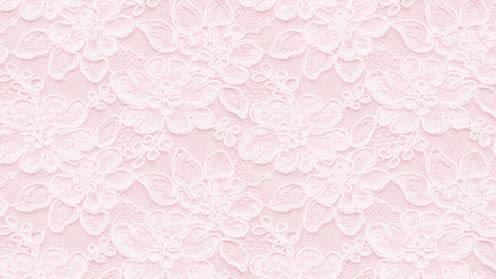
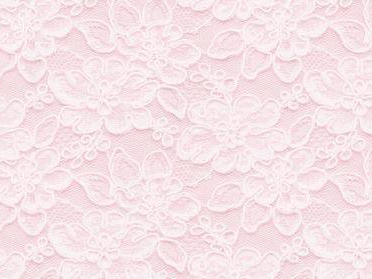
v3.1.3: hero — обрезка 4:3 и ровная рамка (aspect-ratio, object-fit)
Made-with: Cursor

diff --git a/public/css/app.css b/public/css/app.css
@@ -176,6 +176,15 @@ img {
   overflow: hidden;
   box-shadow: var(--shadow);
   border: 1px solid var(--border);
+  aspect-ratio: 4 / 3;
+}
+
+.hero-art__frame img {
+  display: block;
+  width: 100%;
+  height: 100%;
+  object-fit: cover;
+  object-position: center;
 }
 
 .hero h1 {

diff --git a/README.md b/README.md
@@ -1,6 +1,6 @@
 # MarketBW (marketbw.ru)
 
-**Версия:** 3.1.2
+**Версия:** 3.1.3
 
 Сайт-визитка рукоделия (украшения из бисера). **Текущий прод-стек** — лёгкий PHP + SQLite + Twig в Docker (Nginx + PHP-FPM за Traefik).
 
